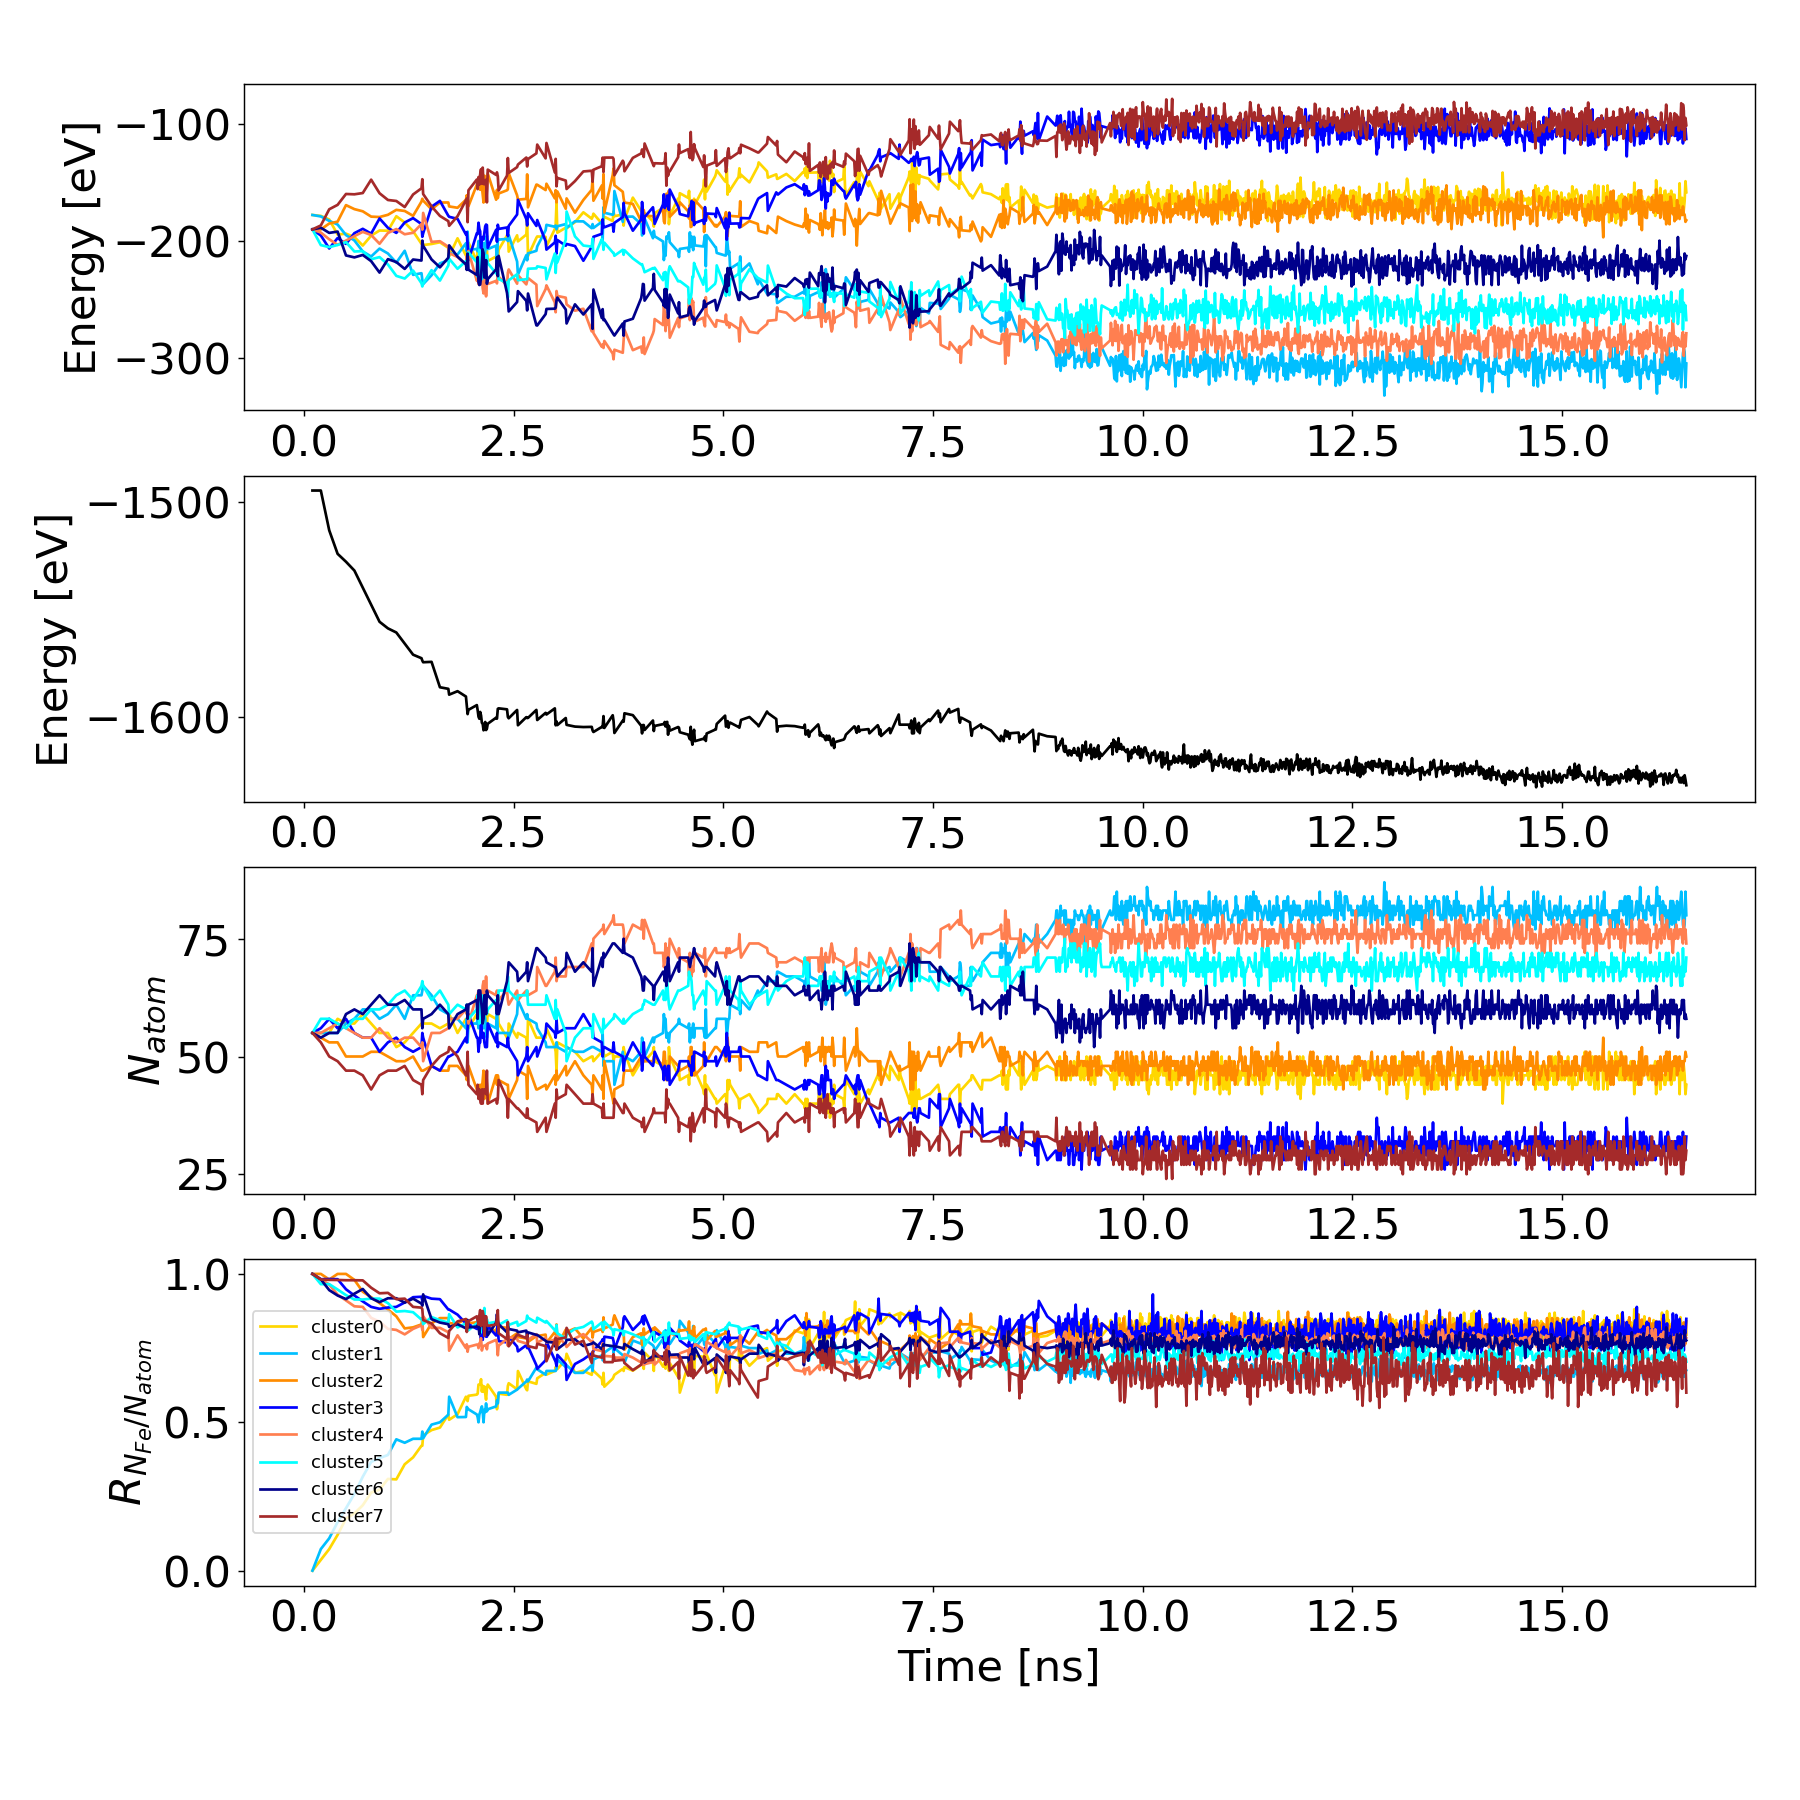
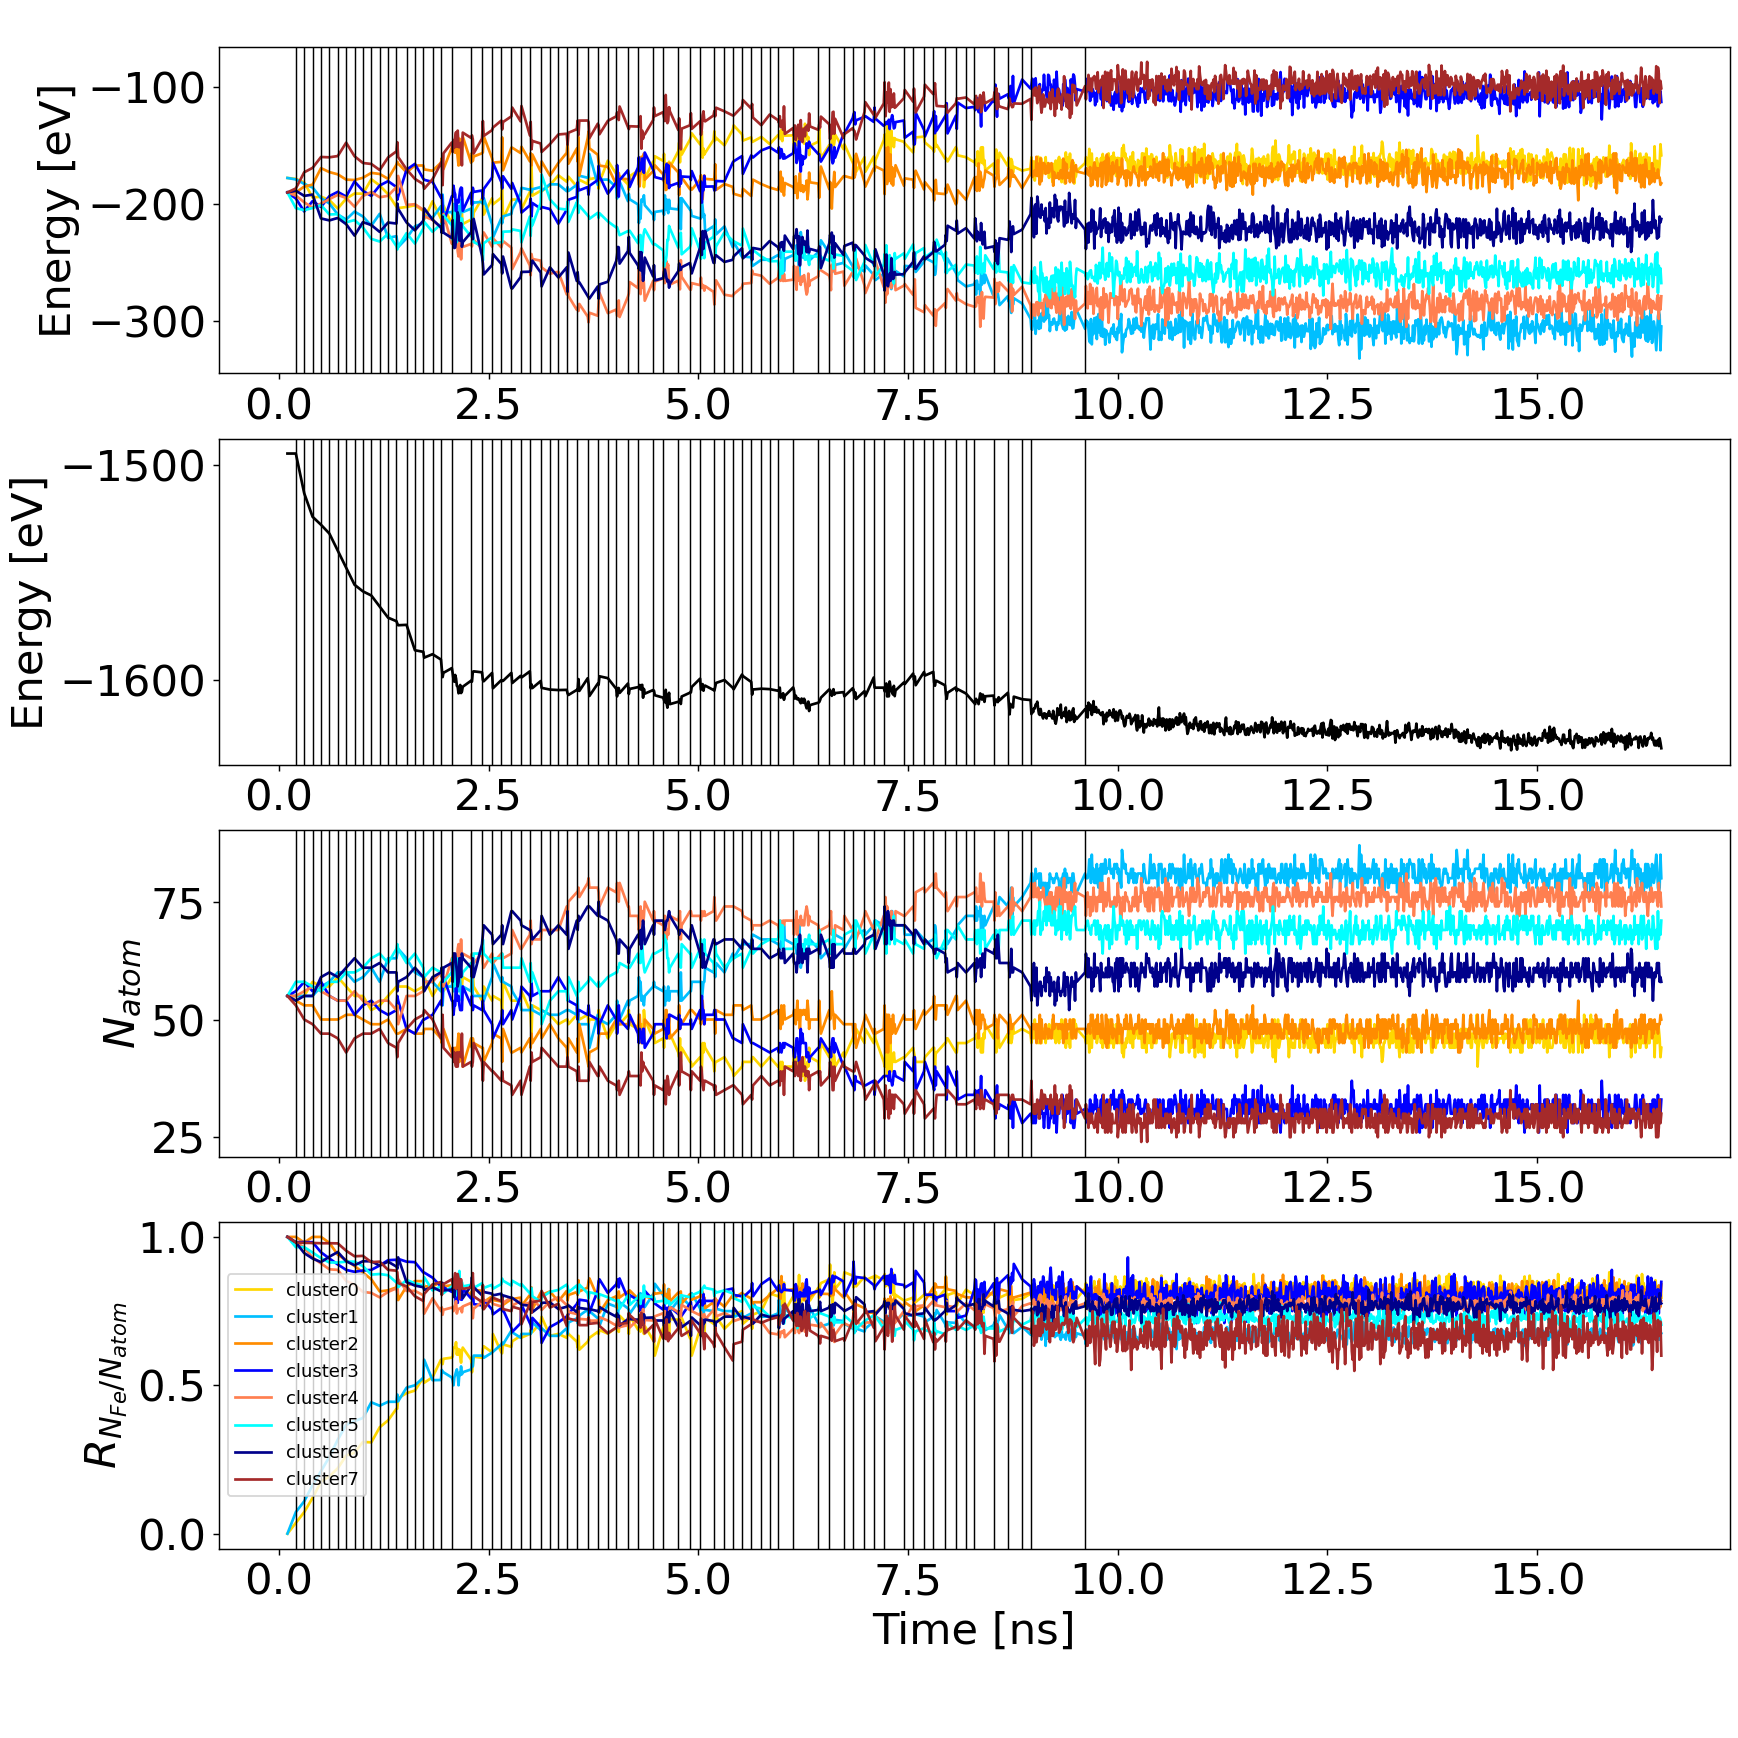
updated

Changed region(s): [[0.0, 0.0311, 1.0, 0.9632]]

diff --git a/main.py b/main.py
@@ -6,21 +6,21 @@ def main():
     linewidth = 3
     gif_duration = 1000#ms
     color = [255,0,0]#RGB
-    pixellist = read_json("input/data.json")
+    pixellist, outputfilename = read_json("input/data.json")
     img = read_image("input/graph.png")
     imglist = make_imagelist(img, pixellist, 152, linewidth, color)
-    save_as_gif(gif_duration, "output/graph.gif", imglist)
+    save_as_gif(gif_duration, "output/"+outputfilename+".gif", imglist)
 
 def read_json(filename):
     with open(filename, "r") as f:
         data = json.load(f)
-    begin, step, end = data["begin"], data["step"], data["end"]
+    begin, step, end, outputfilename = data["begin"], data["step"], data["end"], data["output_filename"]
 
     assert begin < end
     assert type(begin) == type(end) == type(step) == int
 
     pixellist = range(begin, end+step, step)
-    return pixellist
+    return pixellist, outputfilename
 
 def read_image(filename):
     img = cv2.imread(filename=filename)

diff --git a/test_as_png.py b/test_as_png.py
@@ -4,7 +4,7 @@ import cv2
 def test():
     width = 2
     color = [255,0,0]#RGB
-    x=303
+    x=698
 
     img = main.read_image("input/graph.png")
     img = main.add_verticle_line(img, x, width, color)
